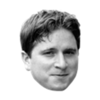
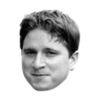
push nouveau filtre

diff --git a/filtre.php b/filtre.php
@@ -8,9 +8,9 @@
 		$height = 480;
 		list($newwidth, $newheight) = getimagesize($_GET['filtre']);
 		$out = imagecreatetruecolor($width, $height);
-		imagecopyresampled($out, $jpeg, 0, 0, 0, 0, $width, $height, $width, $height);
-		imagecopyresampled($out, $png, 0, 0, 0, 0, $width, $height, $newwidth, $newheight);
+		imagecopyresampled($out, $jpeg, 0, 0, 100, 0, $width, $height, $width, $height);
 		imageflip($out, IMG_FLIP_HORIZONTAL);
+		imagecopyresampled($out, $png, 180, 180, 0, 0, $newwidth, $newheight, $newwidth, $newheight);
 		imagejpeg($out, $_GET['img'], 100);
 	}
 	else {
@@ -18,7 +18,7 @@
 		$width = 480;
 		$height = 480;
 		$out = imagecreatetruecolor($width, $height);
-		imagecopyresampled($out, $jpeg, 0, 0, 0, 0, $width, $height, $width, $height);
+		imagecopyresampled($out, $jpeg, 0, 0, 100, 0, $width, $height, $width, $height);
 		imageflip($out, IMG_FLIP_HORIZONTAL);
 		imagejpeg($out, $_GET['img'], 100);
 	}
